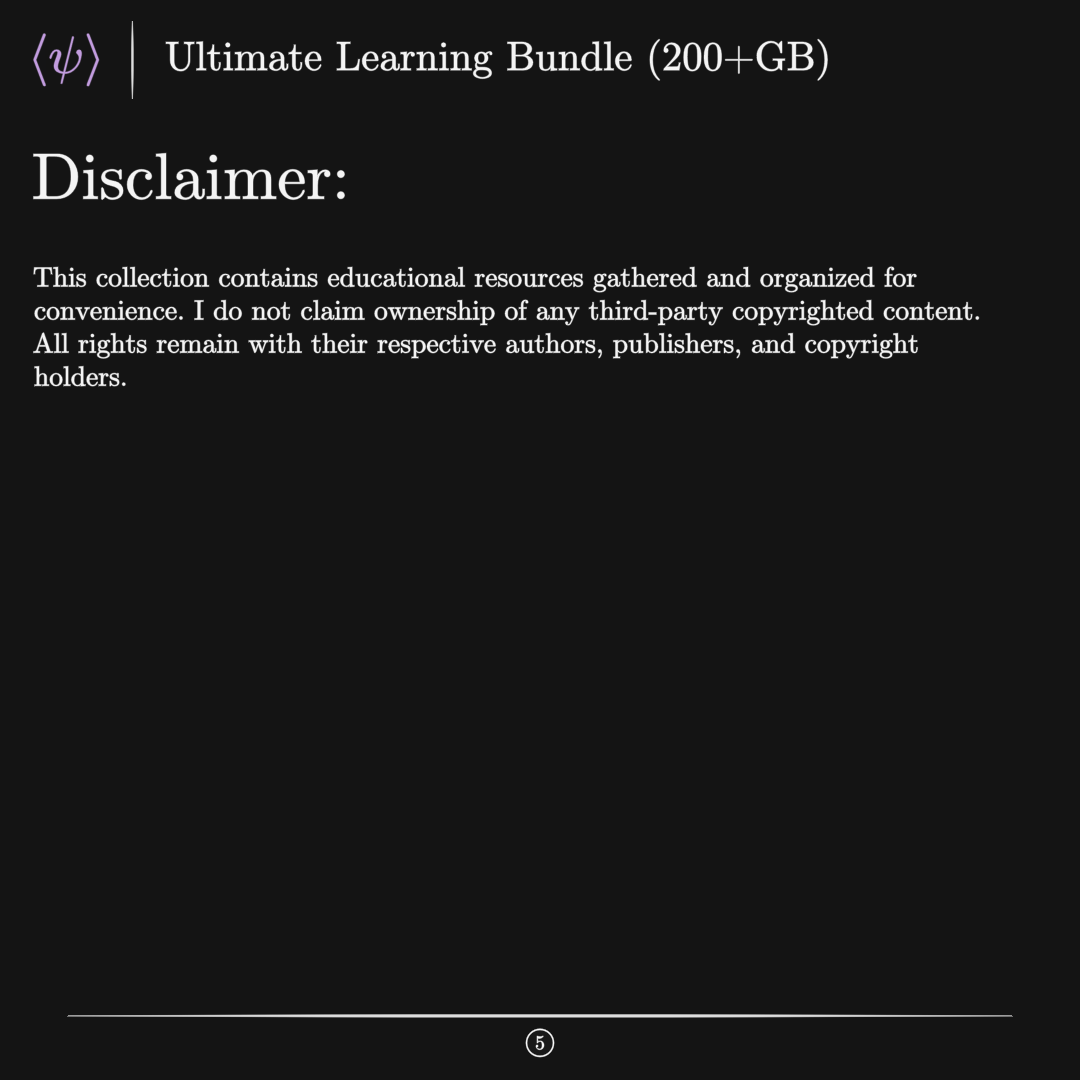
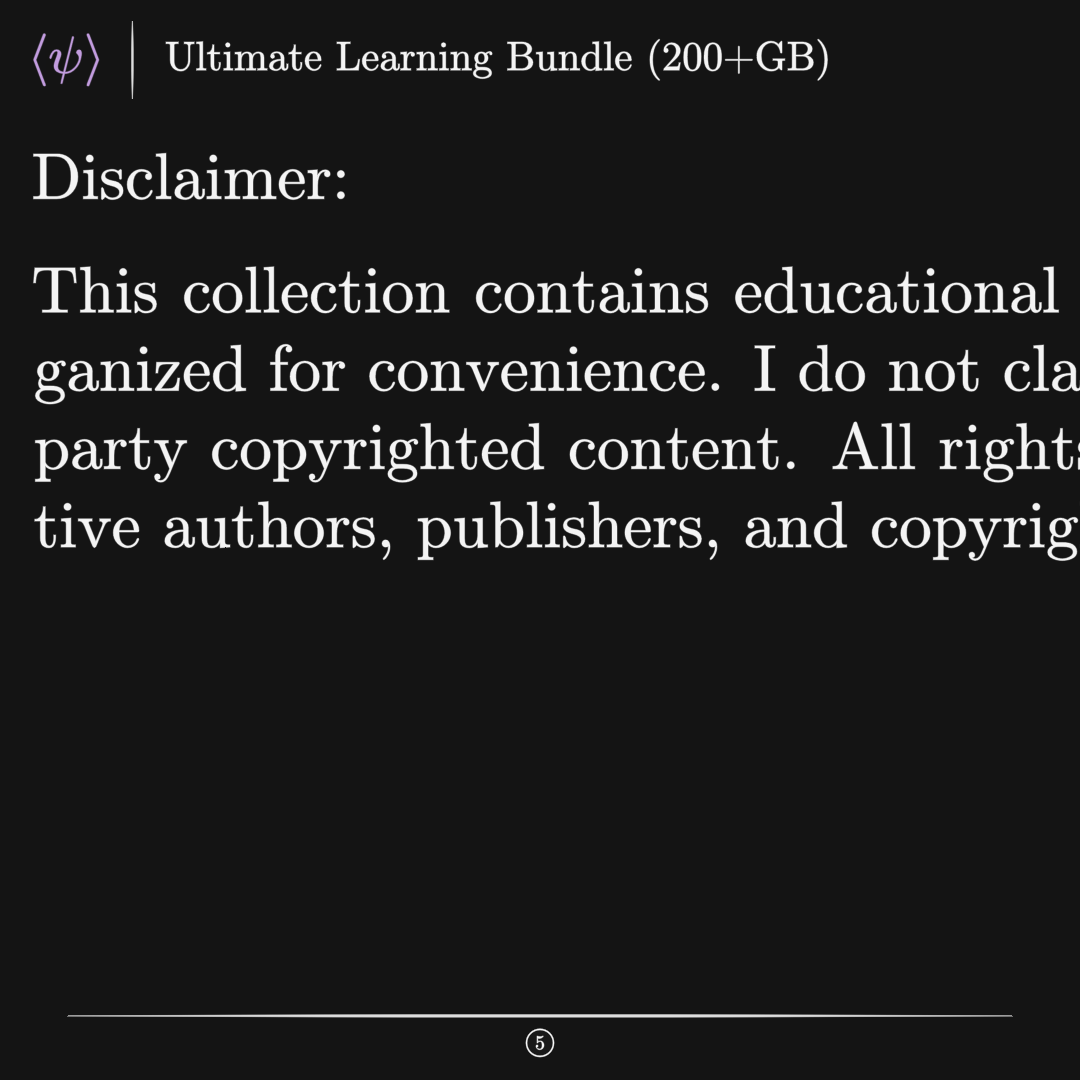
f

Changed region(s): [[0.0306, 0.2444, 1.0, 0.5194]]

diff --git a/test.py b/test.py
@@ -227,12 +227,14 @@ class Dis(PaidTemplate):
         t.next_to(self.logo, DOWN, buff=MED_LARGE_BUFF, aligned_edge=LEFT)
         self.add(t)
         dis = TexText(
-            """
-            This collection contains educational\\ resources gathered and organized
-            for convenience.\\ I do not claim ownership of any third-party\\ copyrighted
-            content.\\ All rights remain with their respective authors,\\ publishers,
+            R"""
+            \begin{minipage}{0.80\textwidth}
+            This collection contains educational resources gathered and organized
+            for convenience. I do not claim ownership of any third-party copyrighted
+            content. All rights remain with their respective authors, publishers,
             and copyright holders.
+            \end{minipage}
             """, alignment=R"\flushleft"
-        ).set_width(FRAME_WIDTH - 1)
+        )
         dis.next_to(t, DOWN, buff=MED_LARGE_BUFF, aligned_edge=LEFT)
         self.add(dis)

diff --git a/latex_cache/working.tex b/latex_cache/working.tex
@@ -27,9 +27,11 @@
 \begin{document}
 
 \flushleft
-This collection contains educational\ resources gathered and organized
-            for convenience.\ I do not claim ownership of any third-party\ copyrighted
-            content.\ All rights remain with their respective authors,\ publishers,
+\begin{minipage}{0.80\textwidth}
+            This collection contains educational resources gathered and organized
+            for convenience. I do not claim ownership of any third-party copyrighted
+            content. All rights remain with their respective authors, publishers,
             and copyright holders.
+            \end{minipage}
 
 \end{document}
